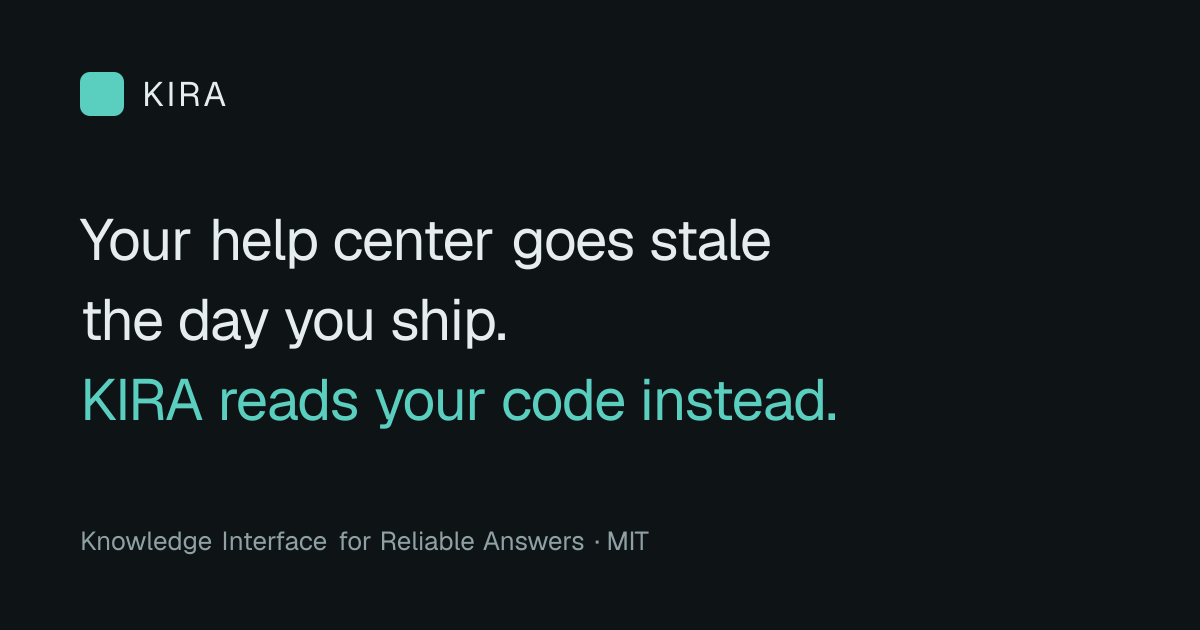
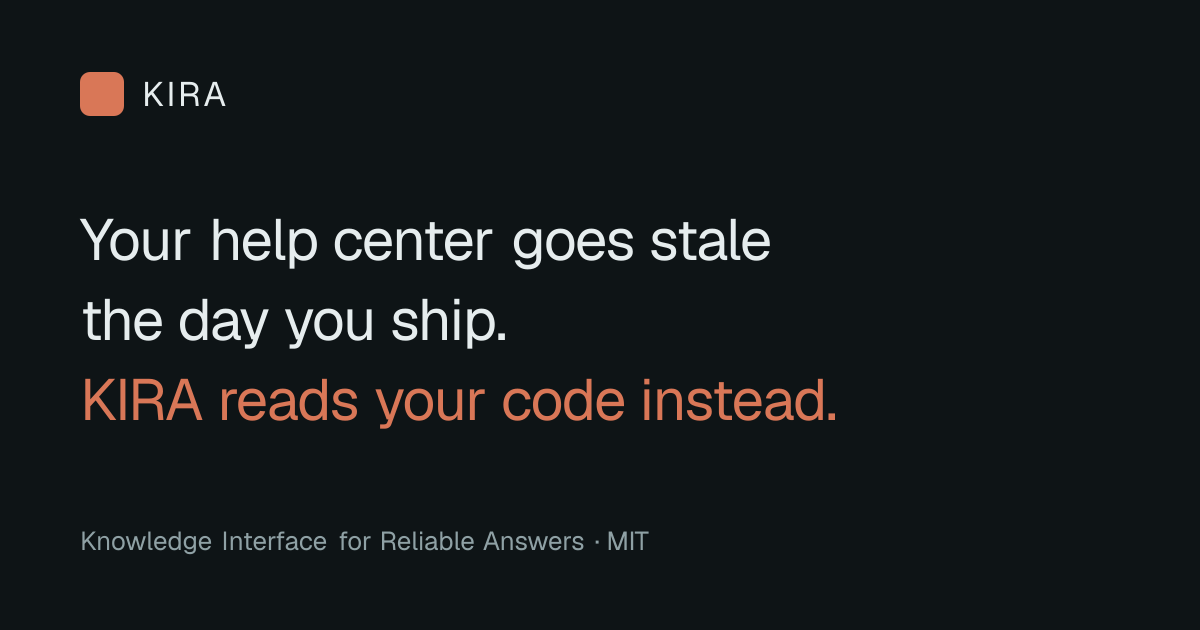
feat(docs): terracotta accent, with the contrast and semantics it forces
#d97757 as the primary, plus the two things that colour requires.

It is 3.1:1 on white, and AA wants 4.5 for text — so the token splits: `brand`
is the fill you see on buttons, chips and bars, `brand-ink` (#b4502c, 5.1:1) is
used wherever the accent carries text, and `on-brand` (#12191c, 5.7:1) is the
button label, since white on the fill is 3.1:1. On the dark canvas #d97757
already clears AA at 5.95:1, so fill and text are the same colour there.

The `boundary` chip moves off amber to the vacated teal. It is the product's one
semantic colour — what the product cannot do — and its chips sit directly beside
accent chips on the landing page, so it takes the hue furthest from terracotta
instead of a neighbouring warm. Documentation warning callouts keep the amber;
they never appear next to a boundary chip.

Icon and social card regenerated to match.

Changed region(s): [[0.0617, 0.6032, 0.7092, 0.6937], [0.0617, 0.0905, 0.1233, 0.181]]

diff --git a/docs/app/page.tsx b/docs/app/page.tsx
@@ -68,7 +68,7 @@ export default function Home() {
       <section className="border-line border-b">
         <div className="mx-auto flex max-w-6xl flex-col gap-6 px-6 py-16 md:py-24">
           <div className="flex flex-wrap gap-2 font-mono text-[11px] uppercase tracking-[0.08em]">
-            <span className="rounded-full border border-brand bg-brand/10 px-2.5 py-1 text-brand">
+            <span className="rounded-full border border-brand bg-brand/10 px-2.5 py-1 text-brand-ink">
               v0.1 · in development
             </span>
             <span className="rounded-full border border-line px-2.5 py-1 text-muted">MIT</span>
@@ -82,7 +82,7 @@ export default function Home() {
 
           <h1 className="max-w-4xl font-semibold text-[clamp(2rem,5vw,3.1rem)] leading-[1.12] tracking-[-0.035em]">
             Your help center goes stale the day you ship.{" "}
-            <span className="text-brand">KIRA reads your code instead.</span>
+            <span className="text-brand-ink">KIRA reads your code instead.</span>
           </h1>
 
           <p className="max-w-[54ch] text-[19px] text-ink-2">{SITE_DESCRIPTION}</p>
@@ -92,7 +92,7 @@ export default function Home() {
               <span className="select-none text-muted">$ </span>npm install -g askkira
             </code>
             <Link
-              className="rounded-md bg-brand px-4 py-2.5 font-mono text-[13px] text-canvas no-underline transition-[filter] hover:brightness-110"
+              className="rounded-md bg-brand px-4 py-2.5 font-mono text-[13px] text-on-brand no-underline transition-[filter] hover:brightness-110"
               href="/docs/quick-start/"
             >
               Quickstart
@@ -171,8 +171,8 @@ confidence: high`}</pre>
                 <span
                   className={`w-fit rounded border px-1.5 py-0.5 font-mono text-[11px] uppercase tracking-[0.07em] ${
                     card.flag
-                      ? "border-flag bg-flag/10 text-flag"
-                      : "border-brand bg-brand/10 text-brand"
+                      ? "border-boundary bg-boundary/10 text-boundary"
+                      : "border-brand bg-brand/10 text-brand-ink"
                   }`}
                 >
                   {card.chip}
@@ -229,7 +229,7 @@ confidence: high`}</pre>
                 }`}
                 key={stage.cmd}
               >
-                <span className="font-mono text-[11px] text-brand uppercase tracking-[0.1em]">
+                <span className="font-mono text-[11px] text-brand-ink uppercase tracking-[0.1em]">
                   {stage.cmd}
                   {stage.soon ? " · v0.2" : ""}
                 </span>
@@ -281,7 +281,7 @@ confidence: high`}</pre>
                 href={`/docs/${doc.slug}/`}
                 key={doc.slug}
               >
-                <span className="text-brand">
+                <span className="text-brand-ink">
                   <Icon name={doc.icon} size={20} />
                 </span>
                 <h3 className="font-semibold text-[15px] text-ink">{doc.label}</h3>

diff --git a/docs/app/globals.css b/docs/app/globals.css
@@ -17,11 +17,21 @@
   --color-surface: #ffffff;
   --color-canvas: #fafbfb;
 
-  /* One accent: deep petrol. Where the page wants you to look. */
-  --color-brand: #0d6e66;
+  /* One accent: terracotta. `--color-brand` is the fill you see on buttons,
+     chips and bars; `--color-brand-ink` is the darker sibling used wherever the
+     accent carries text, because #d97757 on white is 3.1:1 and AA wants 4.5. */
+  --color-brand: #d97757;
+  --color-brand-ink: #b4502c;
+  /* Fixed in both themes: the fill is the same colour in both, and white on it
+     is 3.1:1 while this is 5.7:1. */
+  --color-on-brand: #12191c;
 
-  /* Semantic, not decorative — `boundary` is the product's signature fact type
-     (what it cannot do), so it gets a colour of its own. */
+  /* Semantic, not decorative. `boundary` is the product's signature fact type
+     (what it cannot do) and its chips sit right next to accent chips, so it
+     takes the hue furthest from terracotta rather than a neighbouring warm. */
+  --color-boundary: #0d6e66;
+
+  /* Documentation warnings only — never adjacent to a boundary chip. */
   --color-flag: #8a5610;
 }
 
@@ -37,8 +47,11 @@
     --color-line: #253235;
     --color-surface: #151d20;
     --color-canvas: #0e1416;
-    /* Lifted for contrast on a near-black canvas; same roles. */
-    --color-brand: #5acfc0;
+    /* On a near-black canvas the accent already clears AA at 5.95:1, so the
+       fill and the text variant are the same colour here. */
+    --color-brand: #d97757;
+    --color-brand-ink: #d97757;
+    --color-boundary: #5acfc0;
     --color-flag: #e0a85c;
   }
 }
@@ -101,7 +114,7 @@ h1, h2, h3, h4 {
 .prose-site {
   --tw-prose-body: var(--color-ink-2);
   --tw-prose-headings: var(--color-ink);
-  --tw-prose-links: var(--color-brand);
+  --tw-prose-links: var(--color-brand-ink);
   --tw-prose-bold: var(--color-ink);
   --tw-prose-code: var(--color-ink);
   --tw-prose-quotes: var(--color-ink-2);
@@ -155,7 +168,7 @@ h1, h2, h3, h4 {
   border-left-color: var(--color-brand);
   background: color-mix(in oklab, var(--color-brand) 7%, transparent);
 }
-.callout.tint-brand .callout-label { color: var(--color-brand); }
+.callout.tint-brand .callout-label { color: var(--color-brand-ink); }
 .callout.tint-flag {
   border-left-color: var(--color-flag);
   background: color-mix(in oklab, var(--color-flag) 9%, transparent);

diff --git a/docs/components/Demo.tsx b/docs/components/Demo.tsx
@@ -29,7 +29,7 @@ export function Demo() {
     <div className="overflow-hidden rounded-lg border border-line bg-surface shadow-sm">
       <div className="flex flex-wrap items-center justify-between gap-3 border-line border-b bg-canvas px-4 py-2.5">
         <span className="font-mono text-[13px] text-ink-2">
-          KIRA · knowledge base: <code className="text-brand">domains</code> · 2 facts
+          KIRA · knowledge base: <code className="text-brand-ink">domains</code> · 2 facts
         </span>
         <span className="rounded-full border border-line px-2 py-0.5 font-mono text-[11px] text-muted uppercase tracking-[0.07em]">
           recorded session
@@ -44,7 +44,7 @@ export function Demo() {
                 aria-pressed={i === index}
                 className={`cursor-pointer rounded-full border px-3 py-1.5 text-left font-mono text-[12px] transition-colors ${
                   i === index
-                    ? "border-brand bg-brand/10 text-brand"
+                    ? "border-brand bg-brand/10 text-brand-ink"
                     : "border-line text-ink-2 hover:border-brand hover:text-ink"
                 }`}
                 key={s.label}
@@ -93,7 +93,7 @@ export function Demo() {
                   <span className={i === 0 ? "text-ink-2 break-all" : "text-muted break-all"}>
                     {hit.id}
                   </span>
-                  <span className={`tabular-nums ${i === 0 ? "text-brand" : "text-muted"}`}>
+                  <span className={`tabular-nums ${i === 0 ? "text-brand-ink" : "text-muted"}`}>
                     {hit.score.toFixed(2)}
                   </span>
                 </div>

diff --git a/docs/scripts/opengraph-image.source.tsx b/docs/scripts/opengraph-image.source.tsx
@@ -32,14 +32,14 @@ export default function OpengraphImage() {
       }}
     >
       <div style={{ display: "flex", alignItems: "center", gap: 18 }}>
-        <div style={{ display: "flex", width: 44, height: 44, borderRadius: 10, background: "#5ACFC0" }} />
+        <div style={{ display: "flex", width: 44, height: 44, borderRadius: 10, background: "#D97757" }} />
         <div style={{ display: "flex", fontSize: 34, letterSpacing: 3 }}>KIRA</div>
       </div>
 
       <div style={{ display: "flex", flexDirection: "column", gap: 10 }}>
         {line("Your help center goes stale", "#E6EDEE")}
         {line("the day you ship.", "#E6EDEE")}
-        {line("KIRA reads your code instead.", "#5ACFC0")}
+        {line("KIRA reads your code instead.", "#D97757")}
       </div>
 
       <div style={{ display: "flex", fontSize: 26, color: "#8FA1A5" }}>

diff --git a/docs/app/not-found.tsx b/docs/app/not-found.tsx
@@ -9,7 +9,7 @@ export default function NotFound() {
         That address does not exist on this site. The documentation index is probably where you
         were heading.
       </p>
-      <Link className="font-mono text-[14px] text-brand underline underline-offset-4" href="/docs/">
+      <Link className="font-mono text-[14px] text-brand-ink underline underline-offset-4" href="/docs/">
         Go to the docs →
       </Link>
     </div>

diff --git a/docs/app/docs/page.tsx b/docs/app/docs/page.tsx
@@ -36,7 +36,7 @@ export default function DocsIndex() {
             key={doc.slug}
           >
             <div className="flex items-center gap-2.5">
-              <span className="text-brand">
+              <span className="text-brand-ink">
                 <Icon name={doc.icon} size={20} />
               </span>
               <span className="font-mono text-[11px] text-muted tabular-nums">
